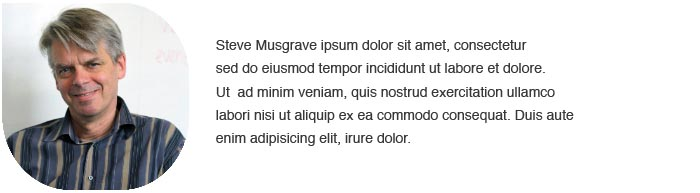
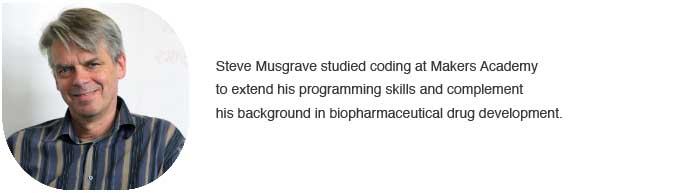
Steve's blurb added

diff --git a/README.md b/README.md
@@ -1,5 +1,6 @@
-<!-- hey guys! I'm working on this slowly each day, and please change it to your liking -->
-<!-- note: Shelley, Ollie, Steve, Emma, Stef blurb still needed -->
+<!-- hey guys! I'm working on this slowly each day, and please contribute to your liking -->
+<!--- Got Steve's and Muhana's blurb --->
+<!-- Shelley, Ollie, Emma, Stef blurb still needed -->
 [unipop]
 ====
 **Connecting student buyers and sellers quickly, efficiently, and beautifully.**
@@ -7,7 +8,7 @@
 ![Unipop on an iPhone](public/readme_images/iPhoneTemplate.jpg)
 ![Unipop in an Apple workplace](public/readme_images/WorkspaceTemplate.jpg)
 
-  unipop is website that allows students buy and sell things in a speedy and trusting environment. Unipop connects you only to the students with your university. 
+  Unipop is website that allows students buy and sell things in a speedy and trusting environment. Unipop connects you only to the students with your university. 
 
   Unipop is optimized for iPhones. 
 
@@ -93,6 +94,7 @@ Meet the team!
 [Louise Lai] | [Muhanad Al-Rubaiee] | [Ollie Delevingne] | [Shelley Hope] | [Emma Williams] | [Stefania Cardenas] | [Steve Musgrave]
 
 **Thanks for reading!**
+
 [Back to the top]
 
 <!-- links, in order of appearance -->
